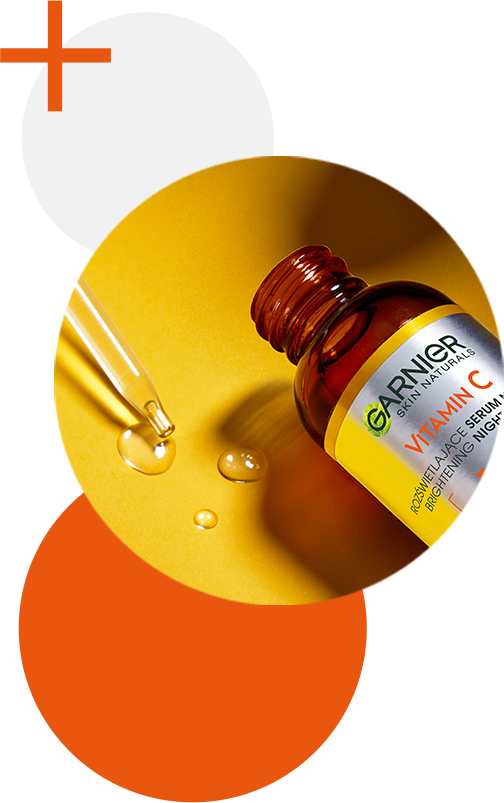
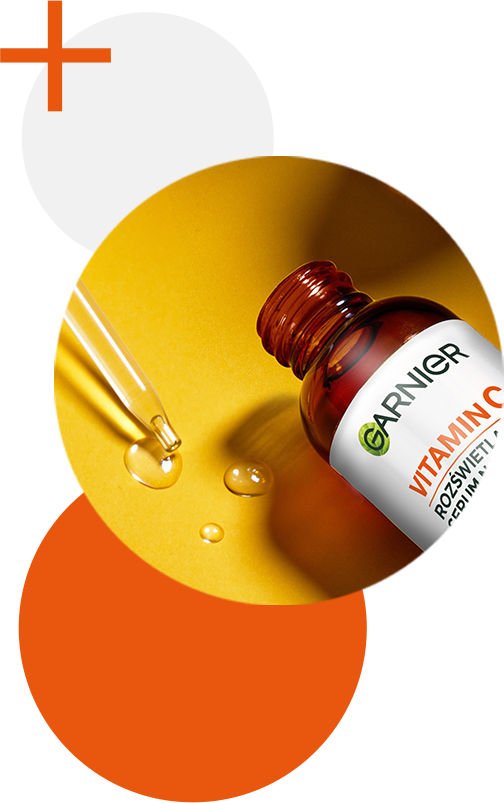
fix: minor style fixes

Changed region(s): [[0.0893, 0.2802, 1.0, 0.6849], [0.5357, 0.6849, 0.6548, 0.7472]]

diff --git a/styles/style.scss b/styles/style.scss
@@ -52,6 +52,10 @@ body {
     box-sizing: border-box;
   }
 
+  p {
+    // margin: 0;
+  }
+
   h2,
   h3,
   h4,
@@ -271,6 +275,11 @@ body {
         text-align: center;
         position: absolute;
         top: 0;
+
+        & p {
+          margin-top: 13px;
+          margin-bottom: 13px;
+        }
       }
     }
 
@@ -459,8 +468,9 @@ body {
     }
 
     &__text {
-      line-height: 1.4em;
+      line-height: 1.2;
       font-size: 12px;
+      margin-top: 0;
       padding-top: 16px;
       text-align: center;
 
@@ -754,18 +764,42 @@ body {
     }
 
     &__img {
-      padding-left: 25px;
+      padding-left: 20px;
+
+      &--1 {
+        width: 205px;
+      }
+
+      &--2 {
+        width: 145px;
+        padding-left: 35px;
+      }
+
+      &--3 {
+        width: 200px;
+      }
+
+      &--4 {
+        width: 170px;
+      }
 
       &--5 {
         padding-left: 90px;
+        width: 190px;
+      }
+
+      &--7 {
+        width: 225px;
       }
 
       &--8 {
         padding-left: 65px;
+        width: 200px;
       }
 
       &--6 {
         padding-left: 70px;
+        width: 180px;
       }
     }
 

diff --git a/styles/style.css b/styles/style.css
@@ -219,6 +219,10 @@ body {
   position: absolute;
   top: 0;
 }
+#es-rc.es-rc-content .es-intro__content--2 .es-intro__intro-effects p {
+  margin-top: 13px;
+  margin-bottom: 13px;
+}
 #es-rc.es-rc-content .es-intro__right {
   width: 100%;
 }
@@ -381,8 +385,9 @@ body {
   transform: scale(1.05);
 }
 #es-rc.es-rc-content .es-ingredients__text {
-  line-height: 1.4em;
+  line-height: 1.2;
   font-size: 12px;
+  margin-top: 0;
   padding-top: 16px;
   text-align: center;
 }
@@ -625,16 +630,35 @@ body {
   align-items: flex-end;
 }
 #es-rc.es-rc-content .es-cross__img {
-  padding-left: 25px;
+  padding-left: 20px;
+}
+#es-rc.es-rc-content .es-cross__img--1 {
+  width: 205px;
+}
+#es-rc.es-rc-content .es-cross__img--2 {
+  width: 145px;
+  padding-left: 35px;
+}
+#es-rc.es-rc-content .es-cross__img--3 {
+  width: 200px;
+}
+#es-rc.es-rc-content .es-cross__img--4 {
+  width: 170px;
 }
 #es-rc.es-rc-content .es-cross__img--5 {
   padding-left: 90px;
+  width: 190px;
+}
+#es-rc.es-rc-content .es-cross__img--7 {
+  width: 225px;
 }
 #es-rc.es-rc-content .es-cross__img--8 {
   padding-left: 65px;
+  width: 200px;
 }
 #es-rc.es-rc-content .es-cross__img--6 {
   padding-left: 70px;
+  width: 180px;
 }
 #es-rc.es-rc-content .es-cross__step {
   color: #63bbbe;

diff --git a/index.html b/index.html
@@ -323,7 +323,7 @@
                        target="_blank">
                       <img src="./images/cross-1.png"
                            alt="Opakowanie Garnier płyn micelarny z witaminą C"
-                           class="es-cross__img">
+                           class="es-cross__img es-cross__img--1">
                     </a>
                   </div>
                   <p class="es-cross__text">Krem-sorbet</p>
@@ -339,7 +339,7 @@
                        target="_blank">
                       <img src="./images/cross-2.png"
                            alt="Opakowanie Garnier serum na przebarwienia"
-                           class="es-cross__img">
+                           class="es-cross__img es-cross__img--2">
                     </a>
                   </div>
                   <p class="es-cross__text">Serum na przebarwienia</p>
@@ -354,7 +354,7 @@
                     <a href="#3">
                       <img src="./images/cross-3.png"
                            alt="Opakowanie Wonder Tint"
-                           class="es-cross__img">
+                           class="es-cross__img es-cross__img--3">
                     </a>
                   </div>
                   <p class="es-cross__text">Wonder Tint</p>
@@ -368,7 +368,7 @@
                     <a href="#4">
                       <img src="./images/cross-4.png"
                            alt="Opakowanie Rewitalizujący płyn micelarny"
-                           class="es-cross__img">
+                           class="es-cross__img es-cross__img--4">
                     </a>
                   </div>
                   <p class="es-cross__text">Rewitalizujący płyn micelarny</p>
@@ -453,7 +453,7 @@
                          target="_blank">
                         <img src="./images/cross-1.png"
                              alt="Opakowanie Garnier płyn micelarny z witaminą C"
-                             class="es-cross__img">
+                             class="es-cross__img es-cross__img--1">
                       </a>
                     </div>
                     <p class="es-cross__text">Krem-sorbet</p>
@@ -467,7 +467,7 @@
                          target="_blank">
                         <img src="./images/cross-2.png"
                              alt="Opakowanie Garnier serum na przebarwienia"
-                             class="es-cross__img">
+                             class="es-cross__img es-cross__img--2">
                       </a>
                     </div>
                     <p class="es-cross__text">Serum na przebarwienia</p>
@@ -481,7 +481,7 @@
                          target="_blank">
                         <img src="./images/cross-3.png"
                              alt="Opakowanie Wonder Tint"
-                             class="es-cross__img">
+                             class="es-cross__img es-cross__img--3">
                       </a>
                     </div>
                     <p class="es-cross__text">Wonder Tint</p>
@@ -495,7 +495,7 @@
                          target="_blank">
                         <img src="./images/cross-4.png"
                              alt="Opakowanie Rewitalizujący płyn micelarny "
-                             class="es-cross__img">
+                             class="es-cross__img es-cross__img--4">
                       </a>
                     </div>
                     <p class="es-cross__text">Rewitalizujący płyn micelarny</p>